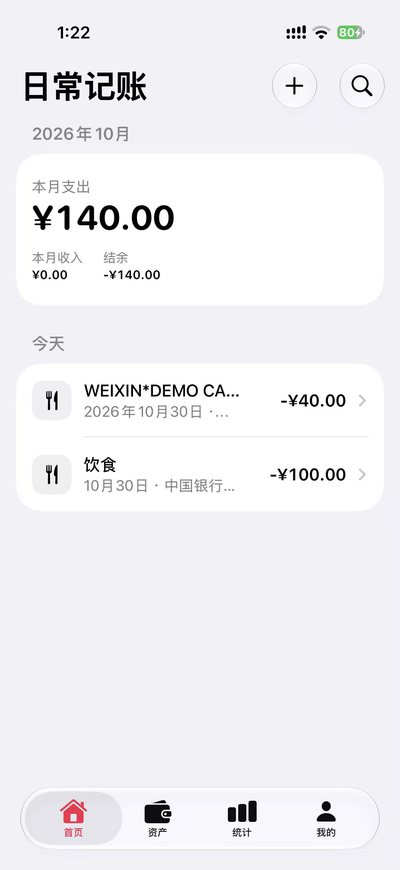
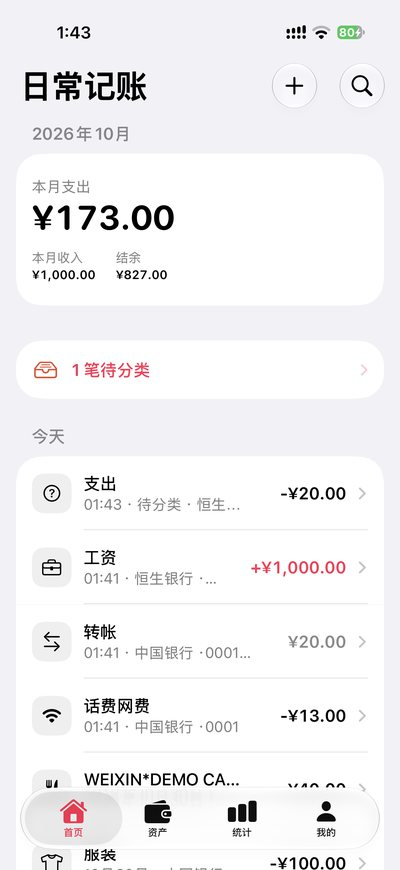
docs: 安装方式改用 iLoader，更新首页素材
Sideloadly 登录失败后已换成 iLoader：安装指南改名并重写相关步骤，新增
ADR 0016，同步更新引用。首页换上数据更完整的截图和资产动画，新增待处理
截图，截图里的真实短信已抹掉。

diff --git a/docs/guides/ios-swift-windows-iloader.md b/docs/guides/ios-swift-windows-iloader.md
@@ -1,10 +1,10 @@
-# Windows 11 + iPhone：下载 IPA、用 Sideloadly 安装、设置自动记账
+# Windows 11 + iPhone：下载 IPA、用 iLoader 安装、设置自动记账
 
 适用：没有 Mac，只有 Windows 11 电脑和 iPhone（本项目按 iPhone 16 Pro / iOS 27.0.1 编写）。
-构建在 GitHub Actions 上完成（[ADR 0009](../decisions/0009-ios-swift-ci-sideloadly.md)），签名在你自己的电脑上用你自己的 Apple 账户完成。
+构建在 GitHub Actions 上完成（[ADR 0009](../decisions/0009-ios-swift-ci-sideloadly.md)），签名在你自己的电脑上用你自己的 Apple 账户完成（[ADR 0016](../decisions/0016-ios-swift-iloader.md)）。
 
-> Apple 账户密码只输入到你本机的 Sideloadly / Apple 登录流程中。不要放进仓库、GitHub Secrets 或发给任何人。
-> Sideloadly 是第三方工具，它会用你的 Apple 账户向 Apple 申请免费的开发证书；请只从官网下载。
+> Apple 账户密码只在你本机的 iLoader 里输入。不要放进仓库、GitHub Secrets 或发给任何人。
+> iLoader 是第三方工具，它会用你的 Apple 账户向 Apple 申请免费的开发证书；请只从官方渠道下载。
 
 ## 1. 下载 IPA
 
@@ -20,25 +20,23 @@
 
    两个哈希值必须一致；也可以与运行页面上「IPA」注释里的 sha256 对照。
 
-## 2. 安装 Sideloadly 及其依赖
+## 2. 安装 iLoader 及其依赖
 
-1. 只从官网 <https://sideloadly.io/> 下载 Windows 版并安装。
-2. Sideloadly 要求**网页版**（非 Microsoft Store 版）的 iTunes 和 iCloud。若已装了商店版，先卸载，再从 Apple 官网下载网页安装包安装（Sideloadly 官网页面提供了链接）。
-3. 安装后重启电脑。
+1. 只从官方渠道下载 Windows 版：<https://github.com/nab138/iloader/releases> 或 <https://iloader.app>。
+2. 安装 [iTunes](https://apple.co/ms)，iLoader 靠它连接 iPhone。
 
 ## 3. 连接并信任 iPhone
 
 1. 用数据线连接 iPhone 与电脑，解锁 iPhone。
 2. iPhone 弹出「要信任此电脑吗？」→ 选「信任」并输入锁屏密码。
-3. Sideloadly 左上角设备列表里应能看到你的 iPhone。
+3. 打开 iLoader，确认它能检测到你的 iPhone。
 
 ## 4. 签名并安装
 
-1. 把 `.ipa` 拖进 Sideloadly。
-2. 「Apple Account」填你自己的 Apple 账户，点 **Start**，按提示输入密码与双重认证验证码。**不需要付费开发者账户。**
-3. **Bundle ID 保持不变**：默认是 `com.example.bookkeepingApp.swift`。
-   如果 Sideloadly 报告该 Bundle ID 已被占用，在 Advanced Options 里设置一个你自己的固定 ID（例如 `com.example.bookkeepingApp.swift.<你的缩写>`），
-   **以后每次安装都用同一个 ID 和同一个 Apple 账户**，否则会被当成另一个 App：数据不能保留，快捷指令里的动作引用也会失效。
+1. 在 iLoader 里登录你自己的 Apple 账户，按提示完成验证。**不需要付费开发者账户。**
+2. 选择导入 IPA 的操作（iLoader 的功能名是「Import any IPA」，按钮文字以实际界面为准），选中第 1 步下载的 `.ipa`。
+3. **以后每次安装都用同一个 Apple 账户，不要改 Bundle ID**（默认是 `com.example.bookkeepingApp.swift`），
+   否则会被当成另一个 App：数据不能保留，快捷指令里的动作引用也会失效。
 4. 不要勾选会删除或修改 App 能力的选项；本 App 不需要任何额外权限（无 App Group、推送、iCloud）。
 
 ## 5. 在 iPhone 上允许运行
@@ -69,16 +67,18 @@
 
 | 情况 | 做法 | 数据 |
 |---|---|---|
-| 新版本 IPA | 用 Sideloadly、**同一 Apple 账户、同一 Bundle ID** 直接安装覆盖。**不要先删除旧 App。** | 覆盖安装按 iOS 规则保留 App 数据（需真机确认，见清单） |
-| 免费签名到期（约 7 天） | 到期前用同一个 IPA 重新安装一次即可续签；也可用 Sideloadly 的自动续签（需电脑开着并与 iPhone 同网络） | 保留 |
+| 新版本 IPA | 用 iLoader、**同一 Apple 账户、同一 Bundle ID** 直接安装覆盖。**不要先删除旧 App。** | 覆盖安装按 iOS 规则保留 App 数据（需真机确认，见清单） |
+| 免费签名到期（约 7 天） | 到期前用同一个 IPA 重新安装一次即可续签 | 保留 |
 | 已经过期 | App 打不开、自动化运行失败；重新签名安装后恢复。过期期间到达的通知不会被补记 | 保留（未删除 App 时） |
 | 删除 App | 本地账本随之删除，无云备份 | **丢失** |
 
-免费 Apple 账户的已知限制（以 Apple / Sideloadly 实际提示为准）：签名约 7 天有效；同时安装的侧载 App 数量有限（常见为 3 个）；
-每 7 天可注册的 App ID 数量有限（常见为 10 个），频繁更换 Bundle ID 会很快用完。
+免费 Apple 账户的已知限制（以 Apple / iLoader 实际提示为准）：签名约 7 天有效；同时安装的侧载 App 数量有限（常见为 3 个）；
+每 7 天可注册的 App ID 数量有限（常见为 10 个），频繁更换 Bundle ID 会很快用完。可以在 iLoader 里查看和撤销开发证书与 App ID。
 
 ## 9. 常见问题
 
+- **iLoader 检测不到 iPhone**：确认 iPhone 已解锁并信任这台电脑。新版 iTunes 可能不再自带 USB 驱动，到 Windows Update 的可选更新里安装「Apple, Inc. - USBDevice」。
+- **iLoader 报错**：日志在 `%APPDATA%\me.nabdev.iloader\logs`。
 - **快捷指令每次都问我是否运行**：自动化没选「立即运行」。编辑自动化改为立即运行。
 - **每次运行都有系统通知**：在该自动化里关闭「运行时通知」。这是系统行为，不是 App 弹窗。
 - **状态一直「待验证」**：在「我的 › 自动记账状态」看接收日志。没有任何记录说明自动化没有触发；有「空输入」说明「通知内容」没有选「快捷指令输入」。

diff --git a/docs/INDEX.md b/docs/INDEX.md
@@ -24,7 +24,7 @@
 | iOS Swift 版：App 图标（Icon Composer 分层图标、深色 / 着色外观、和界面外观分开选的备用图标、CI 渲染预览） | [ios-swift/README.md#app-图标](../ios-swift/README.md#app-图标) | `ios-swift/Bookkeeping/{AppIcon,AppIconLight,AppIconDark}.icon/`、`ios-swift/Bookkeeping/App/BookkeepingApp.swift`（`AppearanceMode.applyIcon`）、`ios-swift/ci/icon-preview.sh` |
 | iOS Swift 版：「我的」页（分组、二级页面标签栏动画、通知开关、主题色）、选币种的水滴搜索框 | [ios-swift/README.md](../ios-swift/README.md) | `ios-swift/Bookkeeping/UI/Profile/ProfileView.swift`、`ios-swift/Bookkeeping/UI/Profile/ThemeColorSheet.swift`、`ios-swift/Bookkeeping/UI/Theme/AppTheme.swift`（`ThemeColor`）、`ios-swift/Bookkeeping/UI/Common/GlassSearchBar.swift` |
 | iOS Swift 版：卡顿、性能开关、帧率指标 | [guides/ios-swift-device-checklist.md](guides/ios-swift-device-checklist.md) | `ios-swift/Bookkeeping/Diagnostics/` |
-| iOS Swift 版：CI 构建、IPA、Sideloadly 安装与续签 | [guides/ios-swift-windows-sideloadly.md](guides/ios-swift-windows-sideloadly.md)、[decisions/0009](decisions/0009-ios-swift-ci-sideloadly.md) | `.github/workflows/ios-swift-build.yml`、`ios-swift/ci/` |
+| iOS Swift 版：CI 构建、IPA、iLoader 安装与续签 | [guides/ios-swift-windows-iloader.md](guides/ios-swift-windows-iloader.md)、[decisions/0009](decisions/0009-ios-swift-ci-sideloadly.md)、[decisions/0016](decisions/0016-ios-swift-iloader.md) | `.github/workflows/ios-swift-build.yml`、`ios-swift/ci/` |
 
 ## 按目录查
 
@@ -42,6 +42,6 @@
 |---|---|
 | [assets/](assets/) | 仓库首页 README 用的图标、演示动图和截图 |
 | [architecture/](architecture/) | [overview.md](architecture/overview.md)：分层与约定；[performance.md](architecture/performance.md)：性能规范与待验证项 |
-| [decisions/](decisions/) | 架构决策记录（ADR）：[0001 本地优先](decisions/0001-local-first-no-server.md)、[0002 后端 Dart](decisions/0002-backend-dart.md)、[0003 数据库](decisions/0003-database-sqlite-drift.md)、[0004 同步](decisions/0004-sync-qr-lan.md)、[0005 自动记账](decisions/0005-auto-bookkeeping-screenshot-ocr.md)、[0006 iOS 改用原生 Swift](decisions/0006-ios-native-swift.md)、[0007 iOS Swift 数据库](decisions/0007-ios-swift-sqlite.md)、[0008 iOS Swift 自动记账接入](decisions/0008-ios-swift-shortcuts-app-intent.md)、[0009 iOS Swift 构建与分发](decisions/0009-ios-swift-ci-sideloadly.md)、[0010 iOS Swift 卡号与卡面](decisions/0010-ios-swift-card-number-and-face.md)、[0011 iOS Swift 多币种与汇率](decisions/0011-ios-swift-multi-currency-and-rates.md)、[0012 iOS Swift 卡包转场改用 UIKit + Core Animation](decisions/0012-ios-swift-wallet-core-animation.md)、[0013 iOS Swift 流水修改删除与外币扣款](decisions/0013-ios-swift-record-editing-and-foreign-charges.md)、[0014 iOS Swift 支出收入转帐与分类](decisions/0014-ios-swift-entry-types-and-categories.md)、[0015 ios-swift 作为默认分支](decisions/0015-ios-swift-default-branch.md) |
+| [decisions/](decisions/) | 架构决策记录（ADR）：[0001 本地优先](decisions/0001-local-first-no-server.md)、[0002 后端 Dart](decisions/0002-backend-dart.md)、[0003 数据库](decisions/0003-database-sqlite-drift.md)、[0004 同步](decisions/0004-sync-qr-lan.md)、[0005 自动记账](decisions/0005-auto-bookkeeping-screenshot-ocr.md)、[0006 iOS 改用原生 Swift](decisions/0006-ios-native-swift.md)、[0007 iOS Swift 数据库](decisions/0007-ios-swift-sqlite.md)、[0008 iOS Swift 自动记账接入](decisions/0008-ios-swift-shortcuts-app-intent.md)、[0009 iOS Swift 构建与分发](decisions/0009-ios-swift-ci-sideloadly.md)、[0010 iOS Swift 卡号与卡面](decisions/0010-ios-swift-card-number-and-face.md)、[0011 iOS Swift 多币种与汇率](decisions/0011-ios-swift-multi-currency-and-rates.md)、[0012 iOS Swift 卡包转场改用 UIKit + Core Animation](decisions/0012-ios-swift-wallet-core-animation.md)、[0013 iOS Swift 流水修改删除与外币扣款](decisions/0013-ios-swift-record-editing-and-foreign-charges.md)、[0014 iOS Swift 支出收入转帐与分类](decisions/0014-ios-swift-entry-types-and-categories.md)、[0015 ios-swift 作为默认分支](decisions/0015-ios-swift-default-branch.md)、[0016 iOS Swift 改用 iLoader 安装](decisions/0016-ios-swift-iloader.md) |
 | [features/](features/) | 功能设计：[sync.md](features/sync.md)、[auto-bookkeeping.md](features/auto-bookkeeping.md)、[ios-swift-auto-bookkeeping.md](features/ios-swift-auto-bookkeeping.md) |
-| [guides/](guides/) | [development.md](guides/development.md)：Flutter 版的环境、命令、性能测量方法；[ios-swift-windows-sideloadly.md](guides/ios-swift-windows-sideloadly.md)：Windows 下载 IPA、Sideloadly 安装与续签；[ios-swift-device-checklist.md](guides/ios-swift-device-checklist.md)：真机验收清单 |
+| [guides/](guides/) | [development.md](guides/development.md)：Flutter 版的环境、命令、性能测量方法；[ios-swift-windows-iloader.md](guides/ios-swift-windows-iloader.md)：Windows 下载 IPA、iLoader 安装与续签；[ios-swift-device-checklist.md](guides/ios-swift-device-checklist.md)：真机验收清单 |

diff --git a/docs/decisions/0016-ios-swift-iloader.md b/docs/decisions/0016-ios-swift-iloader.md
@@ -1,0 +1,22 @@
+# 0016 iOS Swift 版改用 iLoader 签名安装
+
+- 状态：已采纳（替换 [ADR 0009](0009-ios-swift-ci-sideloadly.md) 里的签名安装工具，构建流程不变）
+- 日期：2026-10-31
+
+## 背景
+
+ADR 0009 选了 Sideloadly。2026-10-24 在真机上，Sideloadly 0.71.1 登录失败（`-80046`）；
+换成 [iLoader](https://github.com/nab138/iloader) v2.4.0 后能登录、安装，App 可以正常使用。
+
+## 决定
+
+- 用户在 Windows 上用 iLoader 和自己的 Apple 账户，给 CI 生成的未签名 IPA 签名并安装。
+- iLoader 只从官方渠道下载：GitHub Releases 或 <https://iloader.app>。
+- CI 不变：继续生成未签名 IPA，不使用证书和 Secrets。
+
+## 影响
+
+- 安装指南改为 [guides/ios-swift-windows-iloader.md](../guides/ios-swift-windows-iloader.md)。
+- Windows 上需要 iTunes。设备检测不到时检查 USB 驱动。
+- iLoader 的官方说明没有写续签方式和 Bundle ID 的处理，指南只写已确认的做法：到期前用同一个 Apple 账户重新安装。
+- iLoader 只是用户本机的工具，不进入 App，也不进入 CI。

diff --git a/docs/decisions/0009-ios-swift-ci-sideloadly.md b/docs/decisions/0009-ios-swift-ci-sideloadly.md
@@ -1,6 +1,6 @@
 # 0009 iOS Swift 版构建与分发：GitHub Actions 打包未签名 IPA，用户用 Sideloadly 签名安装
 
-- 状态：已采纳（`ios-swift/`）
+- 状态：已采纳（`ios-swift/`）；签名安装工具已改用 iLoader，见 [ADR 0016](0016-ios-swift-iloader.md)
 - 日期：2026-10-24
 
 ## 背景
@@ -33,6 +33,6 @@
 ## 影响
 
 - 用户需要在 Windows 上安装 Sideloadly（以及其要求的网页版 iTunes / iCloud），用自己的 Apple 账户签名。
-  步骤见 [guides/ios-swift-windows-sideloadly.md](../guides/ios-swift-windows-sideloadly.md)。
+  现在的步骤见 [guides/ios-swift-windows-iloader.md](../guides/ios-swift-windows-iloader.md)。
 - 免费账户签名约 7 天有效，需要定期重签；Bundle ID 和签名账户保持不变才能覆盖安装并保留数据。
 - runner 镜像更新后 Xcode 默认版本可能变化；可用 `workflow_dispatch` 的 `xcode_app` 参数指定。

diff --git a/ios-swift/README.md b/ios-swift/README.md
@@ -186,7 +186,7 @@ docker run --rm -v "<仓库>/ios-swift/Packages/BKCore:/pkg" -w /pkg bk-swift sw
 
 ## 安装到 iPhone
 
-见 [Windows + Sideloadly 安装指南](../docs/guides/ios-swift-windows-sideloadly.md) 与 [真机验收清单](../docs/guides/ios-swift-device-checklist.md)。
+见 [Windows + iLoader 安装指南](../docs/guides/ios-swift-windows-iloader.md) 与 [真机验收清单](../docs/guides/ios-swift-device-checklist.md)。
 
 ## 自动记账
 
